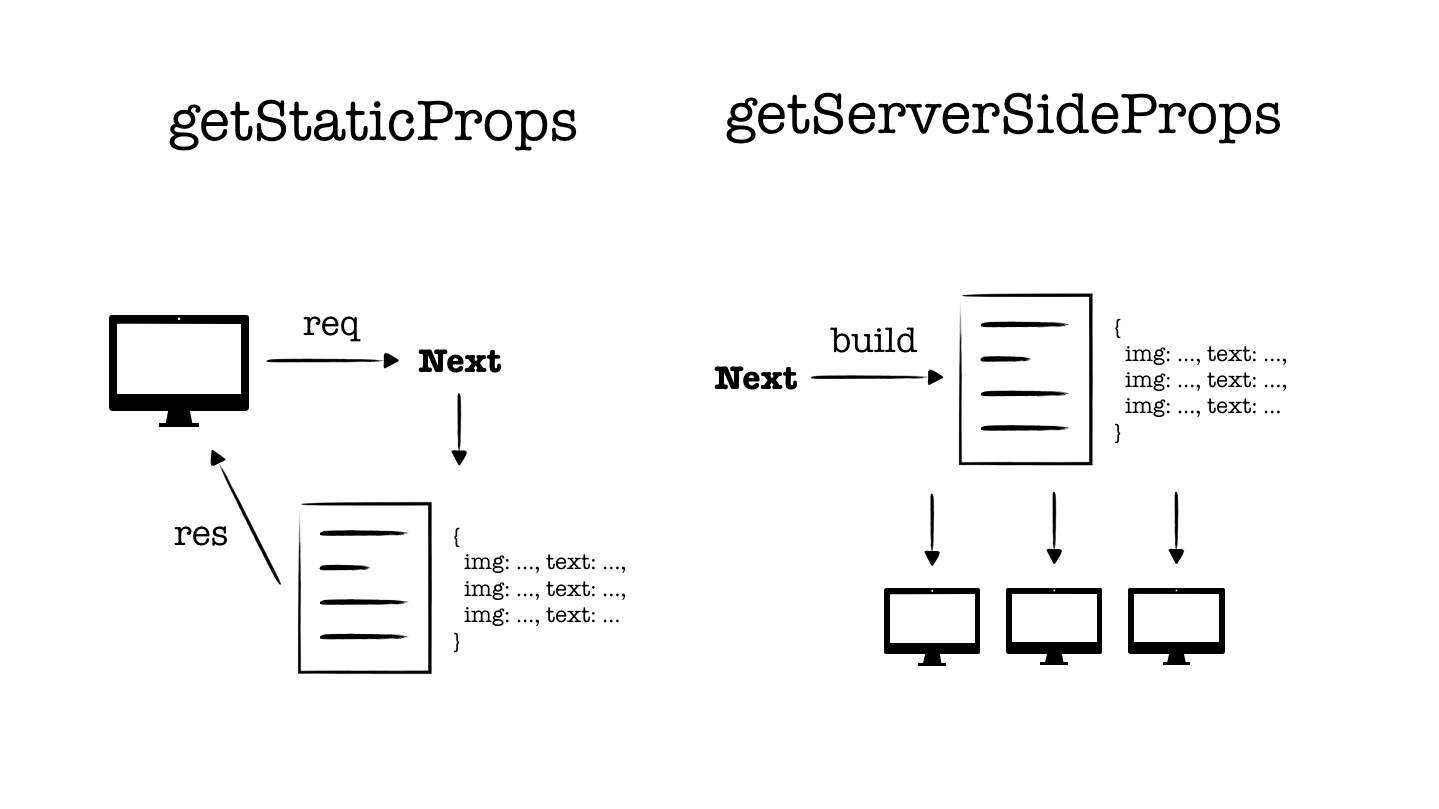
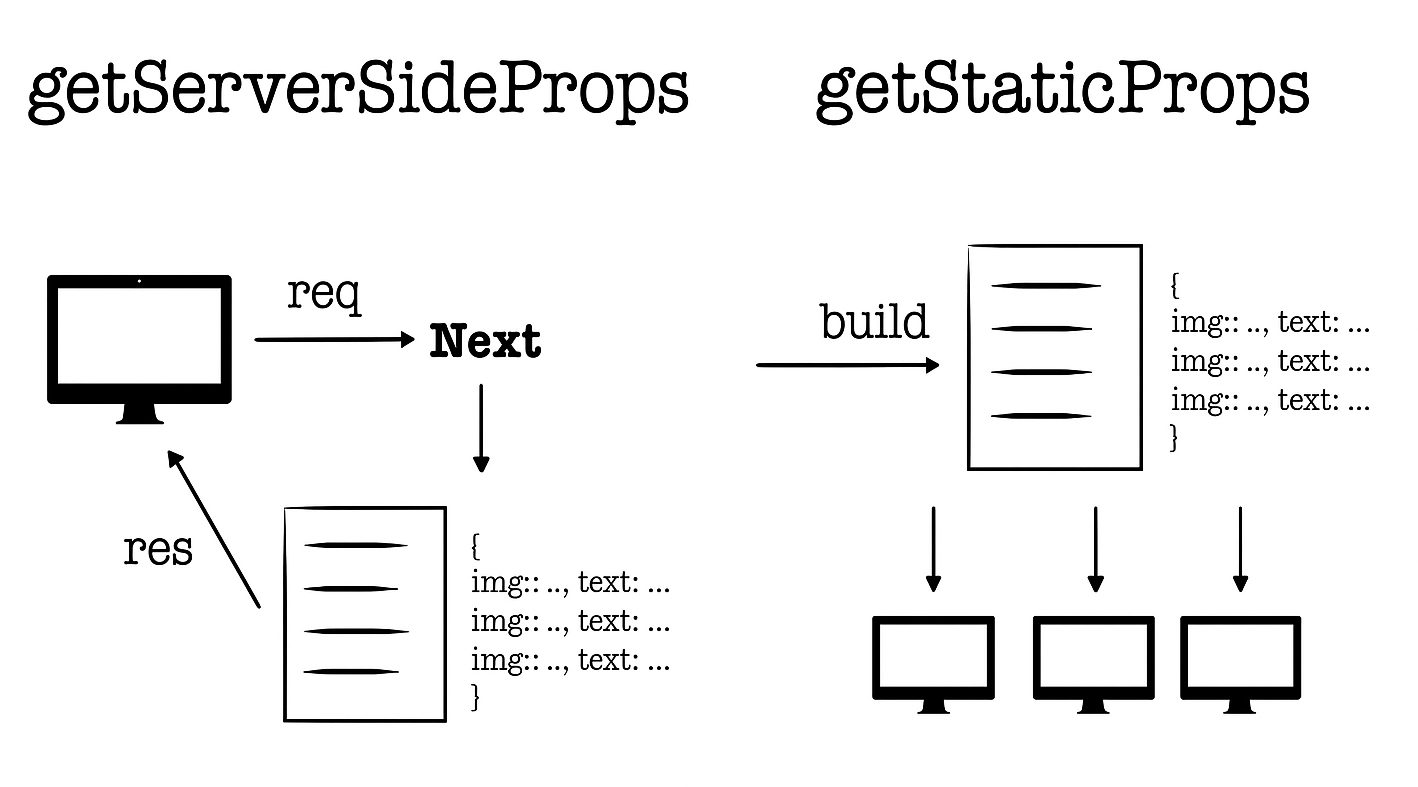
refactor: Update nextjs isr

diff --git a/content/blog/nextjs/next-isr.md b/content/blog/nextjs/next-isr.md
@@ -9,132 +9,119 @@ description: 증분 정적 생성의 타임라인을 살펴봅니다.
 
 <blockquote class="warning">작성한 지 2년이 지난 글이에요. 지금과는 맞지 않을 수도 있지만, 당시의 고민과 노력이 담겨있습니다.</blockquote>
 
-최근 CRA 프로젝트를 넥스트로 이관하는 작업이 한창입니다. 넥스트는 서버 사이드 랜더링과 동시에 클라이언트 사이드 랜더링을
-동시에 지원하기 때문에 점진적 이관이 가능했죠. 단순히 빌드가 실패되는 문제들을 제외하면요.
+최근 클라이언트 사이드 랜더링 방식을 취하고 있는 프로젝트를 `next.js`로 이관하는 작업이 한창이다. `next.js`는 서버 사이드
+랜더링과 동시에 클라이언트 사이드 랜더링을 동시에 지원하기 때문에, 마이너한 빌드 이슈를 제외하면 점진적 이관이 가능했다.
 
-이후 적절한 `getStaticProps`, `getStaticPaths`, `getServerSideProps` 를 통해 서버 사이드에서 데이터 패칭이
-이루어질 수 있도록 작업했습니다.
+이후 페이지별로 적절한 랜더링 전략을 취해야 했다. 가령, 상품 정보와 같은 정적인 정보를 제공하는 페이지의 경우 `getStaticProps`를 통해
+빌드 타임에 패칭된 데이터들을 통해 빠르게 페이지를 제공하고, 동적이고 데이터 정합성을 요구하는 페이지의 경우 `getServerSideProps`를
+통해 제공하는 방식 등을 고려하여 선정해야 했다.
 
-작업할 때 서버 사이드 랜더링(`Server Side Rendering`)보다는 정적 사이트 생성(`Static Site Generation`) 방식으로
-접근하려 했습니다.
+그러나 동적이지만, 그렇다고 실시간으로 데이터 정합성을 요구하는 정도가 아닌 그 중간 어딘가의 데이터를 사용하는 페이지의 경우,
+최대한 정적 사이트 생성 전략을 통해 해결하려 했다.
 
 ## SSR vs SSG
 
-넥스트는 서버 사이드에서 데이터 패칭을 할 수 있도록 두 가지 함수를 제공합니다.
-두 함수의 가장 큰 차이점은 단연 데이터 패칭의 시점인데요.
+`next.js`는 서버사이드 랜더링 전략을 쉽게 구현할 수 있도록 두 가지 API를 제공한다. 두 함수의 가장 큰 차이점은 단연
+데이터 패칭의 시점이다. `getServerSideProps`는 클라이언트에서 요청이 들어올 때 외부 데이터를 패칭하여 마크업을 생성하여
+담아낸다.
 
-**`getServerSideProps`의 경우**, 클라이언트에서 요청이 들어올 때
-데이터 패칭을 통해 외부 데이터를 json파일에 담고, 마크업을 생성하여 클라이언트로 전달합니다.
-
-반대로 **`getStaticProps`의 경우**, 빌드 시 한번만 모든 페이지의 마크업과 데이터 패칭을 통해
-얻은 외부 데이터를 json파일에 담아두고, 요청 때 캐싱되어 있는 마크업, json 파일을 클라이언트로 전달합니다.
+반면, `getStaticProps`는 빌드 타임에 마크업 파일을 생성하고, 외부 데이터를 패칭하여 `json` 파일로 작성한다.
+이후 클라이언트의 페이지 요청에 대해 이미 작성되어 있는 마크업 파일과 데이터가 담겨 있는 `json` 파일을 제공한다.
 
 ![comparison](./images/next-isr/comparison.png)
 
-## 정적 생성을 지향했던 이유
+### 정적 생성 전략을 지향했던 이유
 
-정적 생성된 페이지는 클라이언트의 요청 시 상당히 빠르게 제공됩니다.
-빌드 시 생성한 마크업과 데이터가 담긴 json을 제공하기 때문인데요.
-
-이는 `Time to First Byte (TTFB)`를 크게 줄일 수 있을 뿐만 아니라, `First Input Delay (FID)`와 같은 Web Vital Score를 개선하는 데 큰 도움이 됩니다.
-
-좋지 못한 네트워크 상에서 비교 측정해봤을 때 초 단위로 측정되는 `SSR`에 반해 `SSG`는 밀리 초 단위로
-측정되는 것을 확인할 수 있습니다.
+정적 생성된 페이지는 이미 생성된 마크업 파일과 데이터를 소유하고 있기 때문에, 클라이언트의 요청에 서버사이드 랜더링 전략으로
+제공되는 페이지보다 비교적 빠르게 제공된다.
+이는 서버사이드 랜더링 전략 대비 `Time to First Byte (TTFB)`, `First Input Delay (FID)` 등 다양한 웹 성능 메트릭을 개선하는데 큰 이점을 제공한다.
 
 ![ttfb-ssr](./images/next-isr/ttfb-ssr.png)
 
 ![ttfb-ssg](./images/next-isr/ttfb-ssg.png)
 
-추가적으로 클라이언트의 요청 횟수에 상관없이 서버측은 빌드 시 제공된 한번의 응답이면 충분하게 됩니다.
+더불어 클라이언트의 요청 횟수에 상관없이 빌드 타임에 한 번만 데이터 요청이 이루어지기 때문에 서버 자원 또한 극적으로 절약할 수 있다.
 
 ## 증분 정적 재생성
 
-그러나 한 가지 염두해야 할 것이 있다면, 제공하는 서비스 특성상 데이터가 실시간으로 업데이트되어야 한다면
-**빌드되는 시점에 받은 외부 데이터가 최신화된 데이터로서 유효하지 않다는 점**입니다.
+정적 생성 전략을 통해 웹 성능 메트릭 개선과 서버 자원을 절약을 달성할 수 있다. 그러나 한 가지 염두해야 할 것이 있다면,
+빌드 타임에 캐싱된 외부 데이터가 데이터 정합성 측면에서 유효한가를 확인해 봐야 한다.
+개요에서 언급했던 바와 같이, 상품 정보 데이터의 경우 비교적 무거운 정적인 데이터로 간주하여 빌드 타임에
+캐싱하여 정적으로 제공하는 것이 가능하다.
 
-그래도 넥스트가 정적 생성을 권장하는 근거가 있다면, [증분 정적 재생성](https://vercel.com/docs/concepts/next.js/incremental-static-regeneration)
-(Incremental Static Regeneration)라 생각이 듭니다.
+하지만 구매한 상품 개수, 총 주문 금액을 유저에게 노출시켜 전환율을 높이는 이벤트를 진행한다고 생각해 보자. 상품 개수나, 총 주문 금액과 같은
+데이터는 빌드 타임에 가지고 있을 수 없는 동적인 데이터이다. 하지만 실시간으로 데이터 정합성을 유효하게 제공할 것인가, 혹은 서버 자원 절약하고
+개선된 웹 성능 메트릭을 취할 것인가에 대한 저울질이 가능하다.
 
-위 문서를 읽어보면 증분 정적 재생성을 하기 위해서는 `getStaticProps`의 반환 프로퍼티로 `revalidate` 값을
-설정하면, 설정된 초 단위 마다 넥스트에서 데이터 유효성 검사를 진행할거다 정도로 쉽게 받아드릴 수 있습니다.
+이렇게 비즈니스적인 측면에서 바라보았을때 정적 혹은 동적인 데이터 그 중간 어딘가에 속하는 데이터들은 어떻게 처리할 수 있을까. 바로 `next.js`가 제공하는
+[증분 정적 재생성](https://vercel.com/docs/concepts/next.js/incremental-static-regeneration) 전략을 고려해 볼 수 있다.
 
-하지만, `revalidate` 가 되는 시점과 트리거에 대한 이해가 필연적입니다.
+증분 정적 재생성은 빌드 타임에 외부 데이터를 패칭해 캐싱하는 정적 생성 전략에서, 일정한 트리거에 의해 데이터 유효성을 검증하고
+이를 최신화하여 정적 생성 전략에서도 데이터 정합성을 일부 챙길 수 있는 전략이다.
 
-## 증분 정적 재생성의 타임라인
+이를 구현하는 방식은 간단하다. `getStaticProps`의 반환 프로퍼티로 초 단위의 `revalidate` 값을 제공하면 된다.
+하지만 단순히 `revalidate`에 설정된 초 단위마다 외부 데이터를 최신화하는 것은 아니기 때문에 트리거에 의해 최신화되는 과정을
+살펴보자.
 
-증분 정적 재생성(`ISR`)은 `SSG` 과 동일한 넥스트 API(`getStaticProps`)로 정적 페이지를 생성합니다. `revalidate` 값을 설정하여
-생성된 페이지를 업데이트하도록 알리는데요.
+### 증분 정적 재생성의 타임라인
 
-단순하게 `revalidate`값이 20초라면, 특정 페이지에 대한 첫 요청이
-들어온 이후 20초마다 한번 씩 유효성 검사를 한다는 것으로 오해할 수 있습니다.
+`revalidate`를 20초로 설정했다고 가정해 보자. 이는 첫 요청이 들어온 이후 20초마다 한번씩 유효성 검사를 진행하고
+데이터 정합성을 확인하여 최신화된 데이터가 담긴 페이지를 반환한다는 것으로 오해할 수 있다.
 
 ![wrong](./images/next-isr/wrong.png)
 
-정확한 플로우는 공식 문서에서 다음과 같이 설명하고 있습니다. 이제, 이 플로우를 하나 씩 살펴 봅시다.
+하지만, 정확한 유효성 검사의 흐름은 공식 문서에서 다음과 같이 설명하고 있다.
 
 ![isr-flow](./images/next-isr/isr-flow.png)
 
-`revalidate` 는 20초, 빌드 시 페이지 정적 생성이 이루어졌다면,
-초기 페이지를 요청(1)한다면, 0s 기준으로 캐싱되어 있는 페이지를 응답받습니다.
+`revalidate`가 20초로 설정된 페이지는 빌드 타임에 정적 생성되었다. 해당 페이지 요청(1)이 이루어졌다면,
+0초를 기준으로 빌드 시점에 캐싱되어 있는 페이지가 반환된다.
 
 ![isr-step-1](./images/next-isr/step-1.png)
 
-만약, 20초 이내에 새로운 요청(2)을 보냈다면, 이것 또한 기존 캐싱되어 있는 페이지를 응답받습니다.
+가령 이후 다른 유저가 20초 이내 같은 페이지를 요청(2)했다면, 이것 또한 기존 캐싱되어 있는 페이지가 반환된다.
 
 ![isr-step-2](./images/next-isr/step-2.png)
 
-드디어 20초가 지나서 새로운 요청(3)을 보냈습니다. 넥스트에서는 설정해둔 20초가 지났기 때문에
-캐싱된 페이지에 대해 유효성 검사를 진행하고, 새롭게 캐싱된 페이지가 전달될 거라 기대하지만, 그렇지 않습니다.
-**마찬가지로, 캐싱된 페이지를 응답받습니다.**
+드디어 우리가 설정한 20초가 지난 시점에 새로운 페이지 요청(3)이 들어왔다. 해당 페이지에 `revalidate`로 설정한
+20초가 지났기 때문에 캐싱되어 있는 페이지에 대한 유효성 검사를 진행하고, 최신화된 페이지를 반환할 것이라
+기대하지만 그렇지 않다. 마찬가지로 신선하지 않은 캐싱된 페이지를 반환받는다.
 
 ![isr-step-3](./images/next-isr/step-3.png)
 
-이 단계에서 예상과는 다르게 새롭게 재생성된 페이지를 전달받지 못한 것에 대해 약간의 혼란이 생깁니다.
-그렇다면, 넥스트는 어느 시점에서 새롭게 유효성을 검사할까요?
-
-바로, **20초가 지나서 전달된 새로운 요청(3)이 유효성 재검사의 트리거가 됩니다.**
+개인적으로 이 단계에서 예상과 달라 혼란이 있다. 그렇다면, 어느 시점에 새롭게 유효성 검사가 진행될까.
+바로 20초가 지나서 전달된 새로운 요청(3)이 유효성을 재검사의 트리거가 된다.
 
 ![isr-step-4](./images/next-isr/step-4.png)
 
-넥스트는 20초가 지난 시점에서 새로운 요청(3)이 들어오면 기존의 캐싱되어 있던 페이지의 유효성을 재검사합니다.
-**이때 재생성이 성공한다면, 기존의 캐싱된 페이지는 무효화되며, 재생성된 페이지가 새롭게 캐싱됩니다.**
-만약, 모종의 이유로 재생성에 실패한다면, 기존의 캐싱된 페이지가 유효하게 유지됩니다.
+20초가 지난 시점에서 새로운 요청(3)이 들어오면, 기존에 캐싱되어 있던 페이지를 다시 최신화한다.
+이때 재생성이 성공한다면, 기존의 캐싱된 페이지는 무효화되고 재생성된 페이지가 새롭게 캐싱된다.
+그러나 모종의 이유로 재생성에 실패한다면, 기존에 캐싱된 페이지가 유지된다.
 
-이 시점을 왜 재생성의 트리거로 설정했을 까라는 생각을 오래했는데, 20초 마다 조건없이 재생성하기 보다는,
-20초 이후 새로운 요청이 들어와 업데이트된 정보를 필요로 하는 클라이언트의 수요를 확인하고
-재생성이 이루어지는 것이 훨씬 경제적일 거라는 판단이지 않을까라는 개인적인 생각을 했습니다.
+_이 시점을 왜 재생성의 트리거로 설정했을까라는 생각을 오해했는데, 20초마다 조건없이 재생성 하기보다는,
+20초 이후 들어온 새로운 요청에 대해 빠르게 페이지를 반환해 주고, 최신화된 데이터에 대한 수요를 확인하여
+재생성이 이루어지도록 하는 것이 훨씬 경제적이지 않을까 판단됩니다._
 
 ![isr-step-5](./images/next-isr/step-5.png)
 
-재생성이 완료된 이후 시점에서 새로운 요청(4)이 들어온다면, 재생성이 성공했다는 가정하에 재생성된 페이지를 응답 받게 됩니다.
+재생성이 완료된 이후 시점에 새로운 요청(4)이 들어온다면, 최신화된 페이지를 반환받게 된다.
 
-## ISR를 적용하기 앞서
+### 제품에 적용하기 앞서
 
-사실, 실시간으로 업데이트되어야 하는 제품 상세 페이지에 ISR을 적용하기란 생각보다 불안했습니다.
-그래서 ISR을 타임라인을 그려보기도 하고, 생각보다 비슷한 걱정을 한 이야기들을 보기 위해 괜히
-[디스커션](https://github.com/vercel/next.js/discussions?discussions_q=ecommerce)
-을 읽어보기도 했습니다.
+사실 여러 성질을 가진 데이터들을 요구하는 제품 상세 페이지에 증분 정적 재생성 전략을 취하는 것은 생각보다 불안해
+재검증되는 타임라인을 그려보기도 하고, 생각보다 비슷한 우려에 대해 [논의한 이야기](https://github.com/vercel/next.js/discussions?discussions_q=ecommerce)들도 읽어보며 참고했다.
 
-맘 편하게 `TTFB` 를 조금 양보하더라도 서버 사이드에서 데이터 패칭하도록 할까 라는 생각도 했었지만,
-SSG의 응답 속도를 한번이라도 경험해보신 분들은 절대 포기못 할 속도일 겁니다.
+웹 성능 메트릭을 조금 양보하더라도 서버사이드 랜더링 전략을 취해 모든 요청에 대해 데이터가 패칭되도록 해야 할까라는 생각도 했지만,
+정적 생성 전략의 응답 속도를 경험해 본다면 포기하기 힘들다.
 
-![fast](./images/next-isr/fast1.png)
-
-나름의 합의점을 찾자면, ISR을 통해 속도 최적화를 챙기면서
-가격 변동이나 남은 수량과 같은 실시간 정보를 필요로 하는 곳은 랜더링 직후 클라이언트에서 데이터 패칭을 통해
-UI에 영향이 가지 않는 선에서 스토어를 업데이트해주는 방향을 선택할 수 있습니다.
-
-ISR과 함께 데이터 재검증에 대한 고민을 하다보니 [SWR](https://swr.vercel.app/ko)가 자주 등장하는데요.
-ISR를 적용하고 나서 풀어야 할 숙제가 남아 있기 때문에 SWR를 추가적으로 공부해보려 합니다.
-
-`SWR` 을 `ISR` 와 함께 사용한 예제들을 보면 정적 랜더링 이후 포커싱이 돌아오거나, 네트워크가 회복되었을 때 데이터 패칭을 통해 업데이트된 외부 데이터를 UI에
-적용시켜줍니다. 어쩌면 스토어 따윈 필요로 하지 않는 클라이언트 개발이 얼마 남지 않은 것 같네요.b
+결과적으로 정적인 상품 정보와 같이 무겁고 메타데이터에 활용도가 높은 데이터들은 증분 정적 재생성되도록 캐싱하여
+사용하고, 메타데이터와 무관하며 실시간으로 데이터 정합성 판단이 필요한 남은 수량, 가격 변동과 같은 데이터들은 클라이언트에서
+요청을 분리하여 페이지를 완성하는 전략으로 작업을 진행했다.
 
 ## 마치면서
 
-최근 넥스트로 이관하면서 최적화에 재미가 붙은 것 같습니다. 작업할 때 Web Vital Score을 신경쓰게 되었고,
-페이지별로 감점 요소를 찾고 추가 작업을 합니다. 이번 작업을 진행하면서 고민할 것들도 늘었구요.
-
-그러다 오른 점수를 보면 마냥 행복해지는 게 숙명이 아닌 가 싶습니다. 얼른 90점을 넘겨 초록색 게이지를 보고 싶네요!
+`stale-while-revalidate` 전략을 통해 클라이언트에서 서버 데이터를 캐싱하고 관리해 주는 `react-query`나,
+`swr`과 같은 도구들이 자주 등장한다. 여기서 사용되는 전략 또한 동일한 타임 라인을 가지고 있기 때문에 한번 사용해 보면
+좋을 것 같다.
 
 ![web-vital-score](./images/next-isr/web-vital-score.png)
